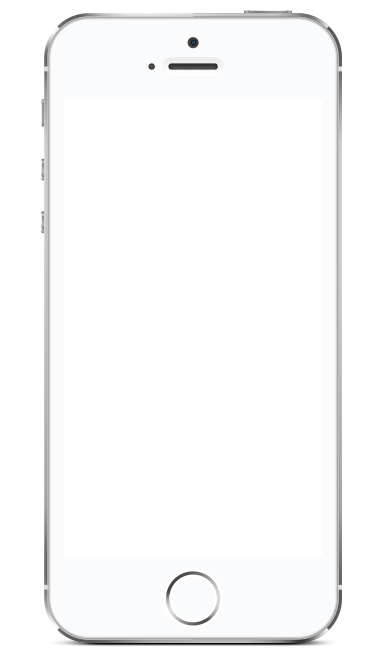
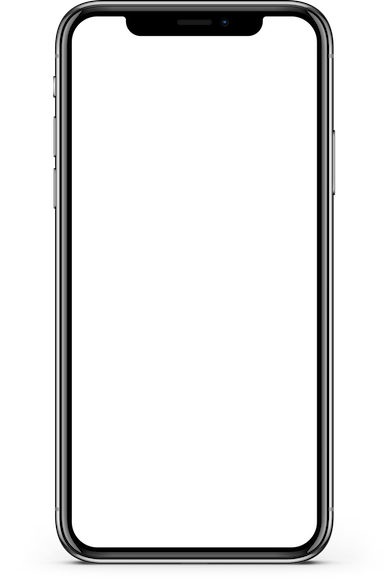
Updated phone frame

Changed region(s): [[0.0933, 0.0, 0.9016, 0.9863], [0.3731, 0.0925, 0.4041, 0.1233]]

diff --git a/assets/css/custom/_custom.scss b/assets/css/custom/_custom.scss
@@ -66,8 +66,8 @@ p {
 }
 
 .reference-wrapper-phone .reference-screen {
-	width: 65px;
-	height: 115px;
+	width: 63px;
+	height: 136px;
 	transform: translate(calc(-50%), calc(-50% - 2px));
 }
 
@@ -108,9 +108,9 @@ a.g-color-text:not([target="_blank"]):before {
 	}
 
 	.reference-wrapper-phone .reference-screen {
-		width: 50px;
-		height: 90px;
-		transform: translate(calc(-50%), calc(-50%));
+		width: 49px;
+		height: 104px;
+		transform: translate(calc(-50%), calc(-50% - 3px));
 	}
 
 	.js-carousel .u-arrow-v1 {
@@ -135,9 +135,9 @@ a.g-color-text:not([target="_blank"]):before {
 	}
 
 	.reference-wrapper-phone .reference-screen {
-		width: 73px;
-		height: 129px;
-		transform: translate(calc(-50%), calc(-50% + 2px));
+		width: 71px;
+		height: 151px;
+		transform: translate(calc(-50% + 1px), calc(-50% - 3px));
 	}
 }
 
@@ -158,9 +158,9 @@ a.g-color-text:not([target="_blank"]):before {
 	}
 
 	.reference-wrapper-phone .reference-screen {
-		width: 79px;
-		height: 137px;
-		transform: translate(calc(-50%), calc(-50%));
+		width: 75px;
+		height: 161px;
+		transform: translate(calc(-50% + 1px), calc(-50% - 3px));
 	}
 
 	.js-carousel .js-prev {
